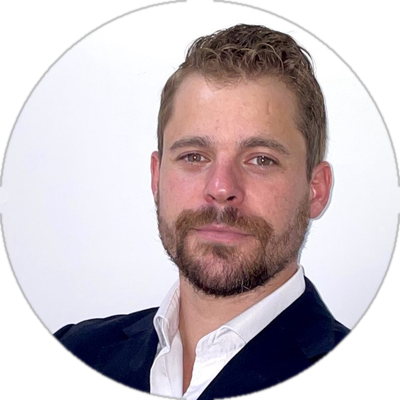
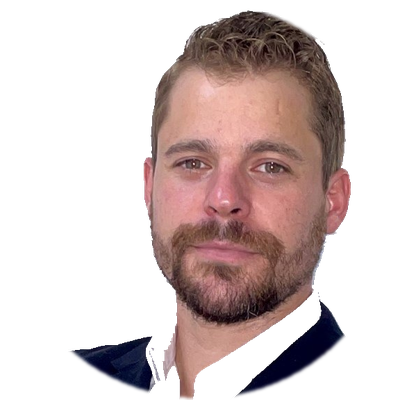
Update professor photo with background removal in Professors and course detail
- Generate rafael-ibanez-nobg.png via luminance flood-fill from edges
- Regenerate avatar.png (transparent bg) from nobg source
- Switch imageUrl to nobg version in professors data
- Fix image positioning: object-right → object-top in Professors.tsx and ProfessorCard

diff --git a/components/Professors.tsx b/components/Professors.tsx
@@ -33,7 +33,7 @@ export default function Professors() {
                     src={professor.imageUrl}
                     alt={professor.name}
                     fill
-                    className="object-cover object-right"
+                    className="object-cover object-top"
                     sizes="(max-width: 1024px) 100vw, 40vw"
                   />
                   <div className="absolute inset-0 bg-gradient-to-r from-transparent via-transparent to-navy-deep/40 hidden lg:block pointer-events-none" />

diff --git a/app/cursos/[id]/page.tsx b/app/cursos/[id]/page.tsx
@@ -414,7 +414,7 @@ function ProfessorCard({
             src={professor.imageUrl}
             alt={professor.name}
             fill
-            className="object-cover object-right"
+            className="object-cover object-top"
             sizes="360px"
           />
           <div className="absolute inset-0 bg-gradient-to-t from-navy-deep/60 via-transparent to-transparent" />

diff --git a/lib/data/professors.ts b/lib/data/professors.ts
@@ -26,7 +26,7 @@ export const professors: Professor[] = [
         ],
       },
     ],
-    imageUrl: '/images/professors/rafael-ibanez.jpg',
+    imageUrl: '/images/professors/rafael-ibanez-nobg.png',
     avatarUrl: '/images/professors/rafael-ibanez-avatar.png',
   },
 ]
